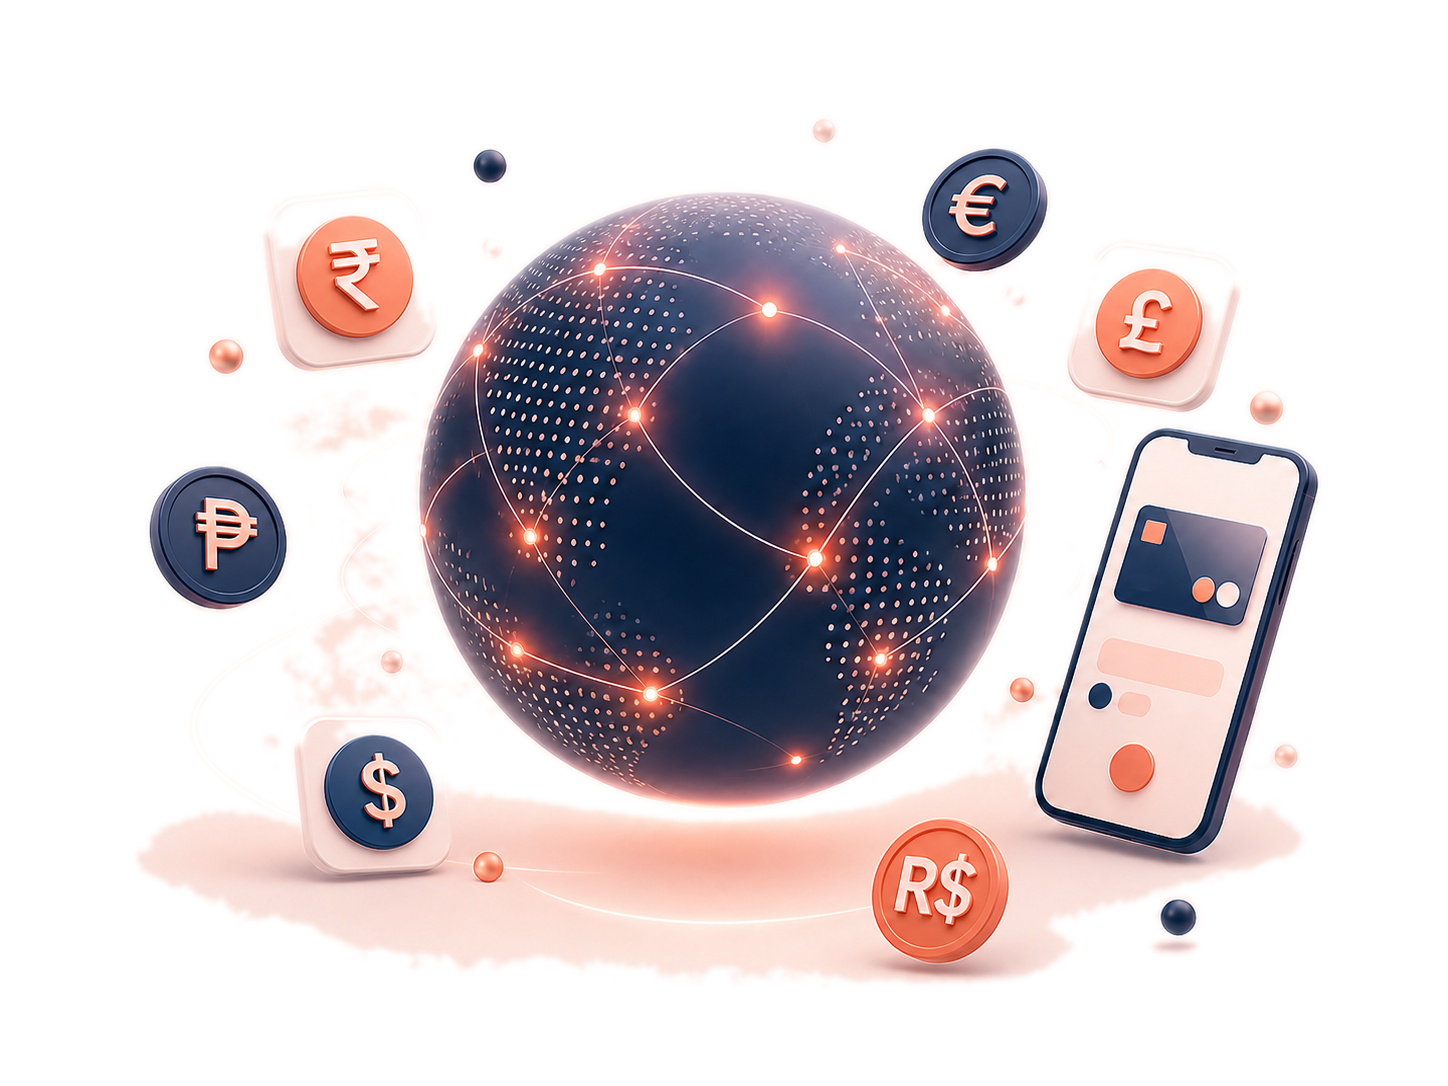
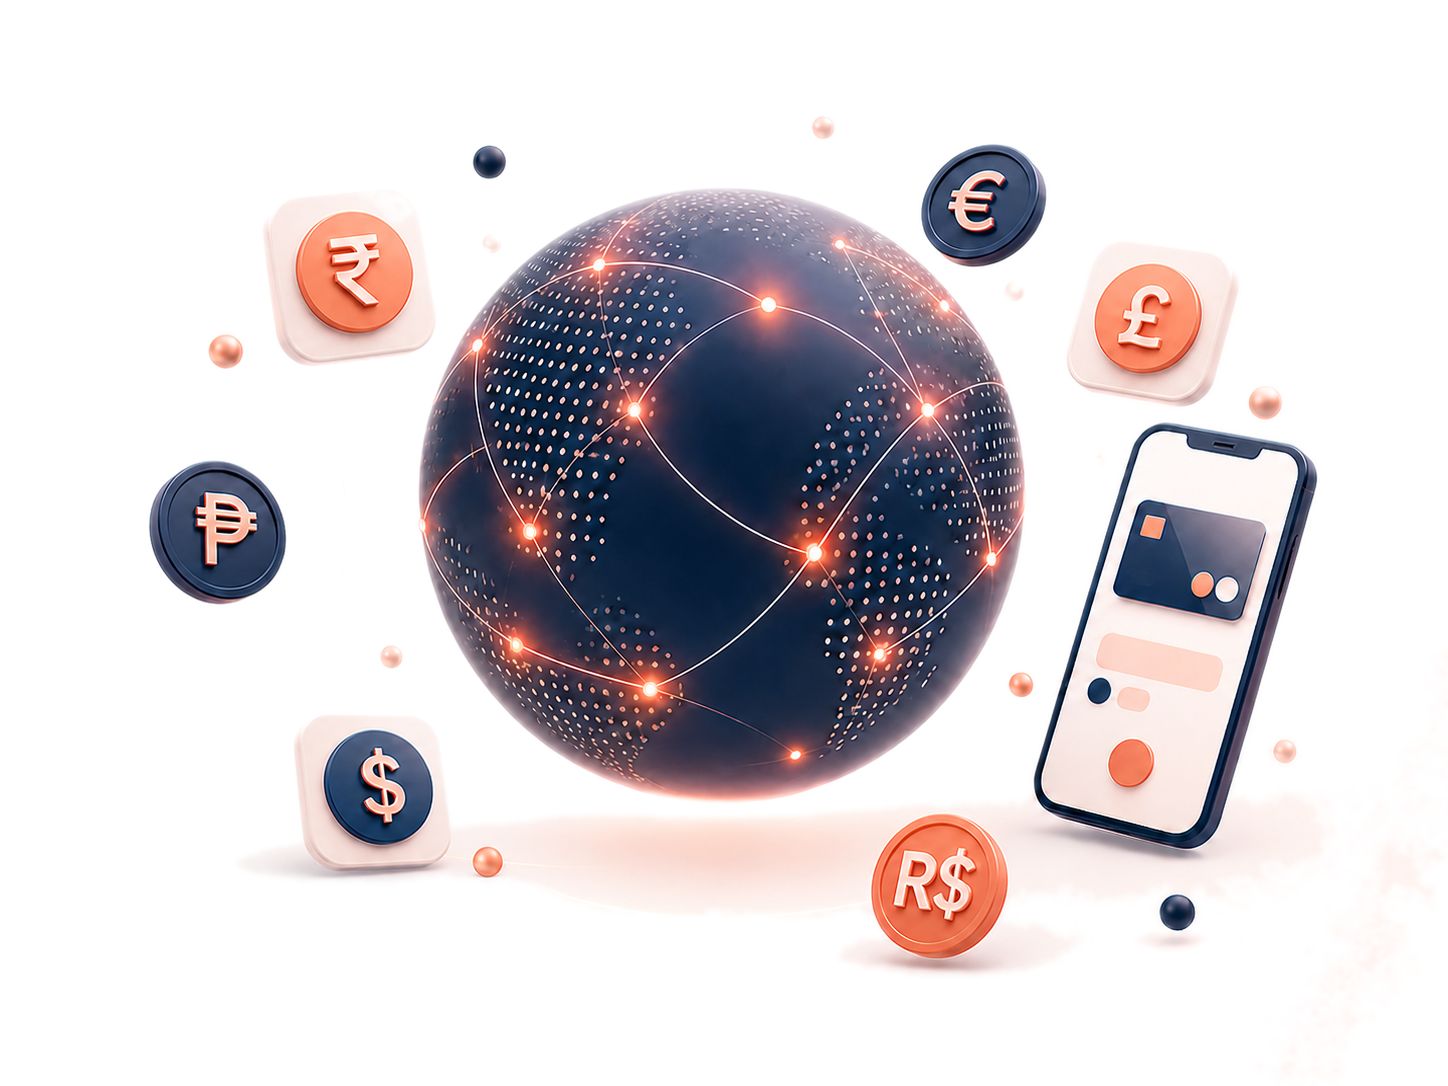
FAQ+guide hero: обновлённая картинка от Игоря (чище, белый фон) + тот же прозрачный фон (flood-fill) — бесшовно

diff --git a/guide.html b/guide.html
@@ -56,7 +56,7 @@
             <div class="faq-hero-stats"><span><strong>8</strong> chapters</span><span class="dot" aria-hidden="true"></span><span>Fiat &rarr; Crypto &amp; Crypto &rarr; Fiat</span></div>
           </div>
           <div class="faq-hero-visual" aria-hidden="true">
-            <img src="assets/hero-faq-global.png?v=1787003000" alt="" class="faq-hero-img" width="1448" height="1086" decoding="async">
+            <img src="assets/hero-faq-global.png?v=1787004000" alt="" class="faq-hero-img" width="1448" height="1086" decoding="async">
           </div>
         </div>
       </div>

diff --git a/faq.html b/faq.html
@@ -55,7 +55,7 @@
             <div class="faq-hero-stats"><span><strong>15</strong> topics</span><span class="dot" aria-hidden="true"></span><span><strong>131</strong> answers</span></div>
           </div>
           <div class="faq-hero-visual" aria-hidden="true">
-            <img src="assets/hero-faq-global.png?v=1787003000" alt="" class="faq-hero-img" width="1448" height="1086" decoding="async">
+            <img src="assets/hero-faq-global.png?v=1787004000" alt="" class="faq-hero-img" width="1448" height="1086" decoding="async">
           </div>
         </div>
       </div>
